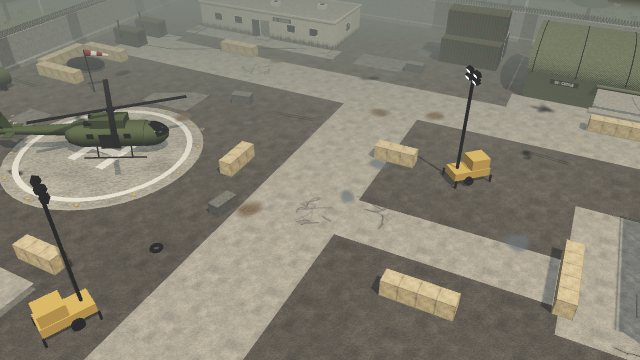
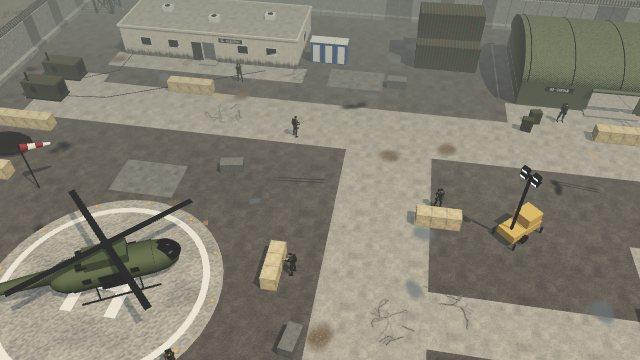
Форпост внешников: укреплённый лагерь с вертолётом, штабом и складом
- game/locations/forpost.js: Т-стены с колючкой, вышки с прожекторами, ворота с КПП
  и змейкой габионов; казарма, ангар-склад (стеллажи, оружейные ящики, кейсы), штаб
  командира (сейф, шкафы), изолятор; вертолётная площадка с вертолётом, автопарк,
  генераторы, контейнеры, мачта связи и вращающийся радар; 22 поста, два патруля
- нагрузка на среднем качестве — до 92 вызовов отрисовки, все тайники достижимы
- превью форпоста на карте Улья; автотест — 12 точек на карте, 140 проверок

Claude-Session: https://claude.ai/code/session_012mFYCpQfzTccVesfBi5iXu

diff --git a/game/locations/forpost.js b/game/locations/forpost.js
@@ -64,6 +64,8 @@ function forpostMaterials() {
 			if (x < 3 || x > 124 || y < 3 || y > 124) c = [92, 90, 82].map((k) => k * (0.9 + n * 0.2)); // каркас
 			return c.map(clamp);
 		}, { roughness: 1 }),
+		// синий пластик кабинок-туалетов
+		blue: new THREE.MeshStandardMaterial({ name: 'extBlue', color: 0x2f5c8a, roughness: 0.55 }),
 		// прожекторы светятся (без освещения, ярче белого)
 		lamp: new THREE.MeshBasicMaterial({ name: 'extLamp', color: new THREE.Color(1.8, 1.6, 1.25), toneMapped: false }),
 	};
@@ -114,7 +116,7 @@ function modBuilding(ctx, P, { name, cx, cz, ry, W, D, H = 2.9, doors = { front:
 	const b = new Building(ctx, { name, cx, cz, ry, W, D, H, top: H + 0.8 });
 	b.messKind = 'tidy'; // у внешников порядок: окна целые, на полу почти чисто
 	const IM = b.IM;
-	shell(b, { wall: P.panel, lining: lining ?? IM.whitewash, floor: floor ?? IM.linoleum, doors, w: dw });
+	shell(b, { wall: P.panel, lining: lining ?? IM.whitewash, floor: floor ?? ctx.M.concreteDark, doors, w: dw });
 	for (const [side, at, o] of windows) modWindow(b, side, at, o);
 	b.top_(place(box(W + 0.3, 0.2, D + 0.3, 3), 0, H + 0.1, 0), ctx.M.concrete);
 	b.parapet(H + 0.2, P.panel, 0.18);
@@ -449,9 +451,10 @@ export default {
 			add(box(1.4, 0.8, 1.3, 1.4), M.yellow, frame(-0.6, 1.45, 0), F);
 			for (const sz of [-1, 1]) add(new THREE.CylinderGeometry(0.34, 0.34, 0.22, 12).rotateX(Z), M.tire, frame(0.3, 0.34, sz * 0.8), F);
 			for (const [lx, lz] of [[-1.4, -0.9], [-1.4, 0.9], [1.4, -0.9], [1.4, 0.9]]) add(box(0.12, 0.6, 0.12), M.metalDark, frame(lx, 0.3, lz), F);
-			add(box(0.16, 7.2, 0.16), M.metalDark, frame(0.9, 4.65, 0), F);
-			add(box(0.1, 0.1, 1.5), M.metalDark, frame(0.9, 8.2, 0), F);
-			for (const y of [8.0, 8.45]) for (const lz of [-0.42, 0.42]) lamp(x + 0.95 * c + lz * s, y, z - 0.95 * s + lz * c, ry, -0.5);
+			// мачта опущена до 6 м: выше она с игровой камеры заслоняет полэкрана
+			add(box(0.16, 4.9, 0.16), M.metalDark, frame(0.9, 3.5, 0), F);
+			add(box(0.1, 0.1, 1.5), M.metalDark, frame(0.9, 5.95, 0), F);
+			for (const y of [5.75, 6.2]) for (const lz of [-0.42, 0.42]) lamp(x + 0.95 * c + lz * s, y, z - 0.95 * s + lz * c, ry, -0.5);
 			collide(x, z, 3.0, 1.8, ry);
 		};
 		lightTower(9.5, -9, -2.38); // прожекторы — к середине двора
@@ -478,7 +481,7 @@ export default {
 		{
 			const hx = pad.x + 0.6, hz = pad.z - 0.4, hry = 0.5, c = Math.cos(hry), s = Math.sin(hry);
 			const at = (lx) => [hx + lx * c, hz - lx * s];
-			occluder('Helicopter', (kb) => helicopter(kb, M, hx, hz, hry), { cx: at(-1.8)[0], cz: at(-1.8)[1], ry: hry, hx: 6.8, hz: 5.8, top: 3.9 }, 0.25);
+			occluder('Helicopter', (kb) => helicopter(kb, M, hx, hz, hry), { cx: at(-1.8)[0], cz: at(-1.8)[1], ry: hry, hx: 6.8, hz: 2.2, top: 3.9 }, 0.25); // рамка — по фюзеляжу (на плане локации — силуэт)
 			collide(...at(0.5), 8.0, 2.7, hry);
 			collide(...at(-6.05), 5.1, 0.9, hry);
 		}
@@ -567,6 +570,35 @@ export default {
 			radarHead.add(face, arm);
 			radarHead.position.set(rx + 0.7 * Math.cos(rry), 2.5, rz - 0.7 * Math.sin(rry));
 			root.add(radarHead);
+		}
+
+		// ---------- Быт: синие кабинки-туалеты у казармы, палатка у южной стены, ящики у склада ----------
+		for (let i = 0; i < 3; i++) {
+			const x = -8.3 + i * 1.25, z = -29.6;
+			batch.add(place(box(1.15, 2.25, 1.15, 1), x, 1.125, z), P.blue);
+			batch.add(place(box(1.25, 0.08, 1.25), x, 2.29, z), M.white);
+			batch.add(place(box(0.7, 1.9, 0.02), x, 1.05, z + 0.585), M.white); // дверь
+		}
+		collide(-7.05, -29.6, 3.75, 1.2);
+		{
+			// палатка из тента: низкие стенки, двускатная крыша, конёк вдоль x
+			const tx = 26.5, tz = 22.2, w = 5.2, d = 4.0, wh = 1.5, rise = 1.3;
+			for (const s of [-1, 1]) {
+				batch.add(place(box(w, wh, 0.06, 2), tx, wh / 2, tz + s * d / 2), M.canvas);
+				const slope = Math.hypot(d / 2 + 0.15, rise);
+				batch.add(place(box(w + 0.3, 0.05, slope, 2), tx, wh + rise / 2, tz + s * (d / 2 + 0.15) / 2, 0, s * Math.atan2(rise, d / 2 + 0.15)), M.canvas);
+			}
+			const gable = new THREE.Shape([new THREE.Vector2(-d / 2, 0), new THREE.Vector2(d / 2, 0), new THREE.Vector2(d / 2, wh), new THREE.Vector2(0, wh + rise), new THREE.Vector2(-d / 2, wh)]);
+			for (const s of [-1, 1]) batch.add(new THREE.ShapeGeometry(gable).rotateY(s * Z).translate(tx + s * w / 2, 0, tz), M.canvas);
+			batch.add(place(box(1.2, 1.9, 0.02), tx + w / 2 + 0.02, 0.95, tz, Z), M.metalDark); // вход
+			collide(tx, tz, w + 0.2, d + 0.2);
+		}
+		for (const [x, z, r] of [[12.2, -22.4, 0.1], [11.4, -21.2, -0.25]]) {
+			beginProp('crate', x, z, r);
+			batch.add(place(box(0.9, 0.6, 0.6), x, 0.3, z, r), M.metalOlive);
+			batch.add(place(box(0.9, 0.6, 0.6), x, 0.9, z, r + 0.08), M.metalOlive);
+			endProp();
+			collide(x, z, 1.0, 0.8, r);
 		}
 
 		// ---------- За периметром: сожжённые машины тех, кто подъехал слишком близко ----------

diff --git a/tools/preview.html b/tools/preview.html
@@ -46,7 +46,7 @@
 			lesopilka: { target: [-22, 0, -12], cam: [12, 22, 22], hero: [-14, -6, 2.6], zombies: [['runner', -22, -12, 0.4, 'Walk'], ['runner', -14, -16, 2.0, 'Run'], ['stomper', -30, -10, 1.4, 'Stomp'], ['runner', -8, -10, 2.8, 'Idle']] },
 			podstanciya: { target: [28, 0, -24], cam: [12, 20, 26], hero: [24, -9, 3.0], zombies: [['ruber', 30, -30, 0.5, 'Roar'], ['stomper', 18, -19, 2.2, 'Stomp'], ['runner', 36, -17, 2.8, 'Run'], ['runner', 22, -15, 2.4, 'Walk']] },
 			// форпост внешников — двор с вертолётной площадкой, часовые в форме
-			forpost: { target: [0, 0, -4], cam: [14, 22, 28], hero: null, zombies: [] },
+			forpost: { target: [-5, 0, -12], cam: [5, 28, 29], hero: null, zombies: [], murs: [[-5.2, -3, -1.57, 'g36'], [4, -10.6, 0.3, 'aug'], [-10.5, 4.5, 0.6, 'fnfal'], [-8, -17, 2.6, 'g36'], [14.5, -23, 0.3, 'mp5'], [-15, -24.5, 0.3, 'aug']] },
 			nii: { target: [2, 0, -16], cam: [12, 20, 26], hero: [-1, -3, 2.8], zombies: [['elite', 2, -18, 0.3, 'Roar'], ['ruber', 11, -21, 2.4, 'Walk'], ['runner', -6, -12, 1.2, 'Run'], ['runner', 7, -9, 2.6, 'Run']] },
 		};
 		const q = new URLSearchParams(location.search);

diff --git a/game/version.js b/game/version.js
@@ -1,2 +1,2 @@
 // Версия игры: время сборки и коммит. Пишет scripts/build-offline.mjs при каждой сборке.
-export const BUILD = {"time":"2026-11-03T15:32:57.333Z","sha":"bf3ddcf"};
+export const BUILD = {"time":"2026-11-03T21:03:17.194Z","sha":"0b887f2"};

diff --git a/CLAUDE.md b/CLAUDE.md
@@ -58,7 +58,7 @@
 ```bash
 npm ci                 # зависимости (three 0.170, esbuild, playwright уже есть в облачной среде)
 npm start              # http://localhost:8080/game.html
-npm run test:game      # браузерный тест всей игры, ~15 минут, должно быть «GAME E2E: OK» (сейчас 136 проверок)
+npm run test:game      # браузерный тест всей игры, ~15 минут, должно быть «GAME E2E: OK» (сейчас 140 проверок)
 npm run test:offline   # сборка download/ulei-cluster17.html и проверка без сети
 npm test               # тест модели зомби
 node scripts/render-previews.mjs   # снимки локаций для карты Улья (assets/previews/*.jpg)
